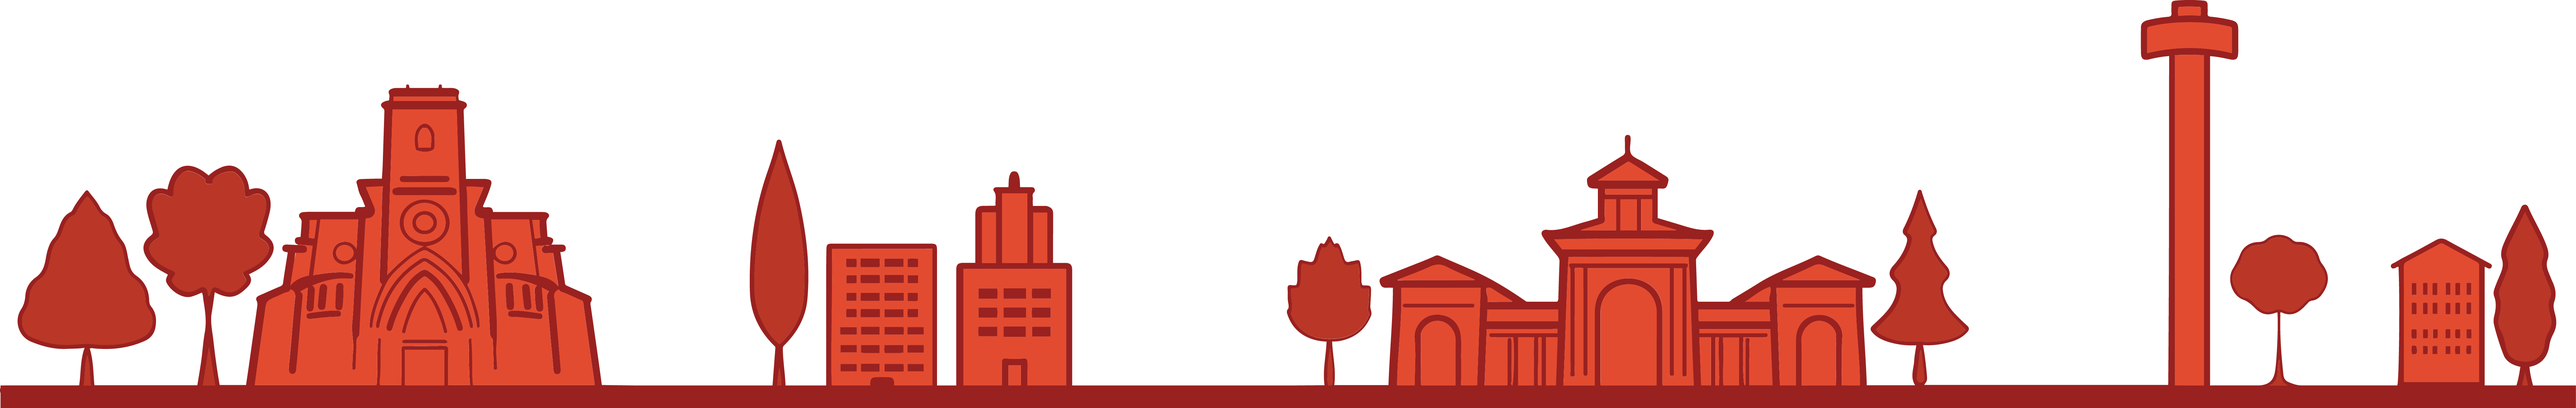
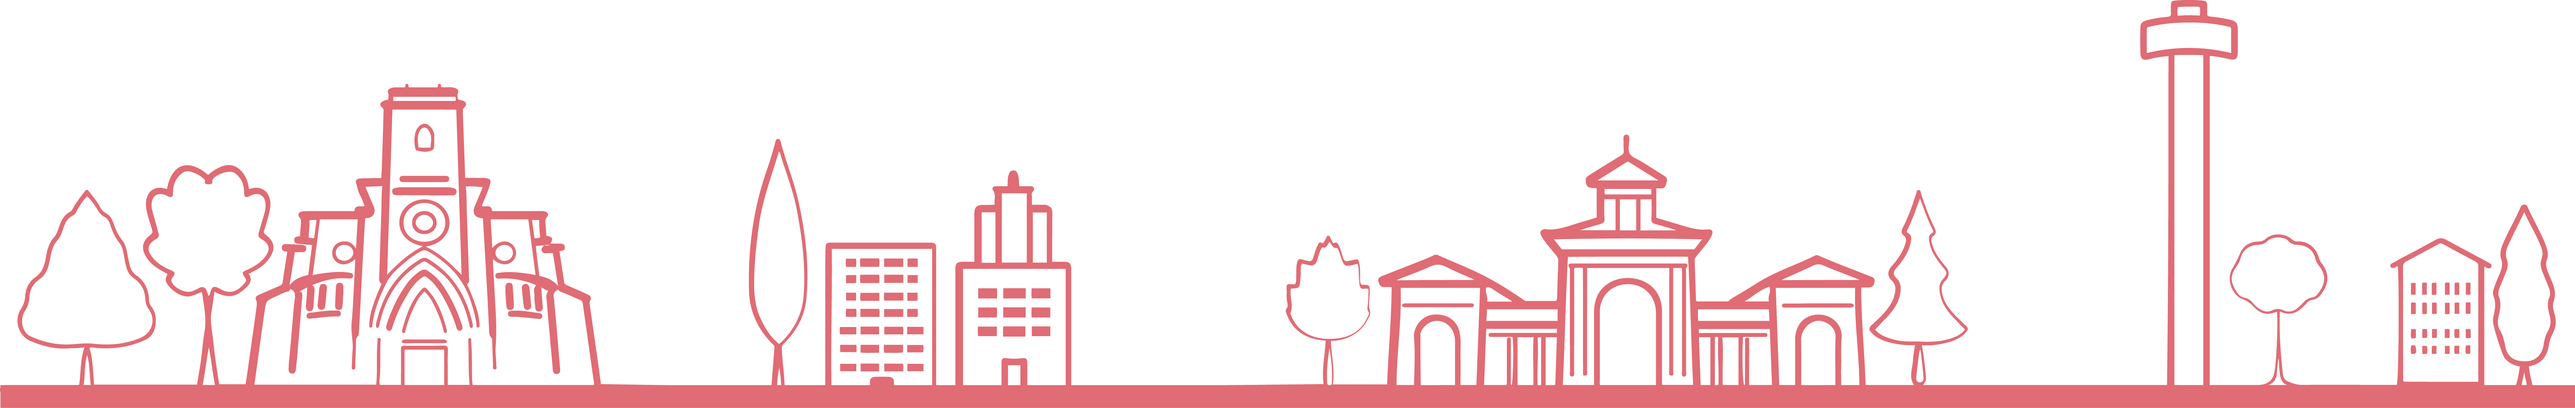
Revamped colors and header

diff --git a/css/main.scss b/css/main.scss
@@ -16,12 +16,16 @@ URL: http://alvarez.is
 
 // #0a7077
 // #01b2fe;
-$gradientA: #92D3C5;
-$gradientB: #B0CCA6;
-$detail: #E34B30;
+// $gradientA: #92D3C5;
+// $gradientB: #B0CCA6;
+$gradientA: #282C34;
+$gradientB: #282C34;
 
-$primary: #91d2a9;
-$primary_rgb: rgba(145, 210, 169, 0.7);
+$primary_g: #98C379;
+$primary_r: #E06C75;
+$primary_p: #C678DD;
+$primary_b: #55B5C0;
+
 $secondary: #282C34;
 $link: #40A9A1;
 $link_hover: #40A9A1;
@@ -132,9 +136,8 @@ header {
 					box-shadow: inset 0 3px 7px rgba(0,0,0,.2), inset 0 -3px 7px rgba(0,0,0,.2);
 
 	min-height: 0px;
-	text-align: center;
 
-	h1 {
+	h1, h2, h3 {
 		color: white;
 	}
 	.img-responsive {
@@ -145,7 +148,6 @@ header {
 #headerbg {
 	background: url(../assets/img/abbg.png) no-repeat center top;
 	position: relative;
-	text-align:center;
 	background-attachment: relative;
 	background-position: bottom center;
 	width: 100%;
@@ -158,6 +160,71 @@ header {
 	padding-top: 100px;
 	padding-bottom: 12%;
 }
+
+#headerbg-slim {
+	position: relative;
+	background-attachment: relative;
+	background-position: bottom center;
+	width: 100%;
+
+	-webkit-background-size: contain;
+	-moz-background-size: contain;
+	-o-background-size: contain;
+	background-size: contain;
+
+	padding-top: 100px;
+	padding-bottom: 8%;
+}
+
+#headerbg-slim-g {
+	background: url(../assets/img/abbg_g.png) no-repeat center top;
+	position: relative;
+	background-attachment: relative;
+	background-position: bottom right;
+	width: 100%;
+
+	-webkit-background-size: cover;
+	-moz-background-size: cover;
+	-o-background-size: cover;
+	background-size: cover;
+
+	padding-top: 100px;
+	padding-bottom: 4%;
+}
+
+#headerbg-slim-b {
+	background: url(../assets/img/abbg_b.png) no-repeat center top;
+	position: relative;
+	background-attachment: relative;
+	background-position: bottom right;
+	width: 100%;
+
+	-webkit-background-size: cover;
+	-moz-background-size: cover;
+	-o-background-size: cover;
+	background-size: cover;
+
+	padding-top: 100px;
+	padding-bottom: 4%;
+}
+
+#headerbg-slim-p {
+	background: url(../assets/img/abbg_p.png) no-repeat center top;
+	position: relative;
+	background-attachment: relative;
+	background-position: bottom right;
+	width: 100%;
+
+	-webkit-background-size: cover;
+	-moz-background-size: cover;
+	-o-background-size: cover;
+	background-size: cover;
+
+	padding-top: 100px;
+	padding-bottom: 4%;
+}
+
+
 
 .intro {
 	text-align: center;
@@ -208,78 +275,23 @@ footer {
 	}
 
 	i:hover {
-		color: $primary;
+		color: $primary_g;
 	}
 }
 
-.header-slim {
-	background: -moz-linear-gradient(45deg,  $gradientA 0%, $gradientB 100%); /* FF3.6+ */
-	background: -webkit-gradient(linear, left bottom, right top, color-stop(0%,$gradientA), color-stop(100%,$gradientB)); /* Chrome,Safari4+ */
-	background: -webkit-linear-gradient(45deg,  $gradientA 0%,$gradientB 100%); /* Chrome10+,Safari5.1+ */
-	background: -o-linear-gradient(45deg,  $gradientA 0%,$gradientB 100%); /* Opera 11.10+ */
-	background: -ms-linear-gradient(45deg,  $gradientA 0%,$gradientB 100%); /* IE10+ */
-	background: linear-gradient(45deg,  $gradientA 0%,$gradientB 100%); /* W3C */
-	filter: progid:DXImageTransform.Microsoft.gradient( startColorstr='$gradientA', endColorstr='$gradientB',GradientType=1 ); /* IE6-9 fallback on horizontal gradient */
-	-webkit-box-shadow: inset 0 3px 7px rgba(0,0,0,.2), inset 0 -3px 7px rgba(0,0,0,.2);
-		 -moz-box-shadow: inset 0 3px 7px rgba(0,0,0,.2), inset 0 -3px 7px rgba(0,0,0,.2);
-					box-shadow: inset 0 3px 7px rgba(0,0,0,.2), inset 0 -3px 7px rgba(0,0,0,.2);
 
-	margin-top: 60px;
-	margin-bottom: 60px;
-	padding-top: 25px;
-	padding-bottom: 25px;
 
-	h3 {
-		color: white;
-		margin-left: 15px;
-	}
-}
+.intro {
+	text-align: center;
+	margin-top: 5%;
+	margin-bottom: 5%;
 
-/* Testimonials Wrap */
-#twrapback {
-    background-color: $primary;
-    background-color: $primary_rgb;
-    position: absolute;
-    top: 0;
-    left: 0;
-    width: 100%;
-    height: 100%;
-}
-
-#twrap {
-
-  background: url(../assets/img/t-back.jpg) no-repeat center top;
-  position: relative;
-  margin-top: 0px;
-	padding-top:60px;
-	text-align:center;
-	background-attachment: relative;
-	background-position: center center;
-	min-height: 450px;
-	width: 100%;
-
-  -webkit-background-size: cover;
-  -moz-background-size: cover;
-  -o-background-size: cover;
-  background-size: cover;
-
-	i {
-		font-size: 50px;
-		color: white;
-		margin-bottom: 25px;
+	.emphasis {
+		font-size:46px;
 	}
 	p {
-		color: white;
-		font-size: 15px;
-		line-height: 30px;
+		font-size:22px;
 	}
-	h2 {
-		color: white;
-	}
-}
-
-.about {
-	font-size: 20px;
 }
 
 /* Services Wrap */
@@ -288,7 +300,7 @@ footer {
 	margin-bottom: 100px;
 
 	i {
-		color: $detail;
+		color: $primary_r;
 		font-size: 60px;
 		padding: 15px;
 	}
@@ -346,7 +358,7 @@ footer {
     bottom: 0;
     right: 0;
     margin: auto;
-    background: $detail;
+    background: $primary_r;
     background-size:50px 50px;
     opacity:0;
     filter:alpha(opacity=0);/*For IE6 - IE8*/
@@ -430,7 +442,7 @@ footer {
 }
 
 .badge-theme {
-	background: $primary;
+	background: $primary_g;
 }
 
 /*	################################################################
@@ -506,11 +518,11 @@ a.anchor{
 }
 
 .navbar-default .navbar-nav > li > a:hover {
-	color: $primary;
+	color: $primary_g;
 }
 
 .navbar-default .navbar-nav > .active > a, .navbar-default .navbar-nav > .active > a:hover, .navbar-default .navbar-nav > .active > a:focus {
-	color: $primary;
+	color: $primary_g;
 	background-color: transparent;
 }
 
@@ -541,8 +553,8 @@ a.anchor{
 .btn-theme.active,
 .open .dropdown-toggle.btn-theme {
   color: #fff;
-  background-color: $detail;
-  border-color: $detail;
+  background-color: $primary_r;
+  border-color: $primary_r;
 }
 
 .dmbutton:hover,
@@ -634,7 +646,7 @@ a.anchor{
 		font-size: 35px;
 	}
 	a:hover{
-		color:$detail;
+		color:$primary_r;
 	}
 	img {
 		width: 75%;
@@ -662,7 +674,7 @@ a.anchor{
 		overflow: hidden;
 
 		padding: 15px;
-		background-color: $primary;
+		background-color: $primary_g;
 		vertical-align: middle;
 
 
@@ -692,7 +704,7 @@ a.anchor{
 		}
 
 		a:hover {
-			color: $detail;
+			color: $primary_r;
 		}
 	}
 

diff --git a/_includes/wrap.html b/_includes/wrap.html
@@ -1,7 +1,9 @@
-<div class="header-slim">
-    <div class="container">
-        <div class="row">
-            <h3>{% if layout.wrap_title %}{{ layout.wrap_title }}{% else %}{{ page.title }}{% endif %}</h3>
-        </div><!-- /row -->
-    </div> <!-- /container -->
-</div><!-- /blue -->
+<header>
+  <div id="{{include.bg}}">
+      <div class="container">
+          <div class="row">
+              <h2>{% if layout.wrap_title %}{{ layout.wrap_title }}{% else %}{{ page.title }}{% endif %}</h2>
+          </div><!-- /row -->
+      </div> <!-- /container -->
+  </div><!-- /blue -->
+</header>

diff --git a/_pages/about.html b/_pages/about.html
@@ -5,7 +5,7 @@ permalink: /about
 navigation_weight: 4
 ---
 
-{% include wrap.html %}
+{% include wrap.html bg='headerbg-slim-p' %}
 
 <div class="container">
   <div class="row">
@@ -70,7 +70,7 @@ navigation_weight: 4
 
           <div class="separator">&nbsp;</div>
 
-          <div class="col-sm-5 col-xs-hidden skew">
+          <div class="col-sm-5 col-xs-hidden text-center skew">
             <h3>{{person.name}}</h3>
             <p>
               <b>{{person.shortbio}}</b>

diff --git a/_includes/header.html b/_includes/header.html
@@ -1,7 +1,7 @@
 <header>
   <div id="headerbg">
     <div class="container">
-        <div class="row">
+        <div class="row text-center">
 
           <div class="col-lg-8 col-lg-offset-2 himg">
               <img src="{{ "/assets/img/logo_header.png" | prepend: site.baseurl }}" class="img-responsive">

diff --git a/_layouts/post.html b/_layouts/post.html
@@ -4,7 +4,7 @@ wrap_title: Blog
 parent_nav_url: /blog/
 ---
 
-{% include wrap.html %}
+{% include wrap.html bg='headerbg-slim-g'%}
 
 <div class="container mtb">
     <div class="row">

diff --git a/_pages/events.html b/_pages/events.html
@@ -5,7 +5,7 @@ permalink: /events
 navigation_weight: 3
 ---
 
-{% include wrap.html %}
+{% include wrap.html bg='headerbg-slim-b'%}
 
 <div class="container mtb">
     <div class="row">

diff --git a/_layouts/blog.html b/_layouts/blog.html
@@ -2,7 +2,7 @@
 layout: default
 ---
 
-{% include wrap.html %}
+{% include wrap.html bg='headerbg-slim-g'%}
 
 <div class="container mtb">
     <div class="row">
